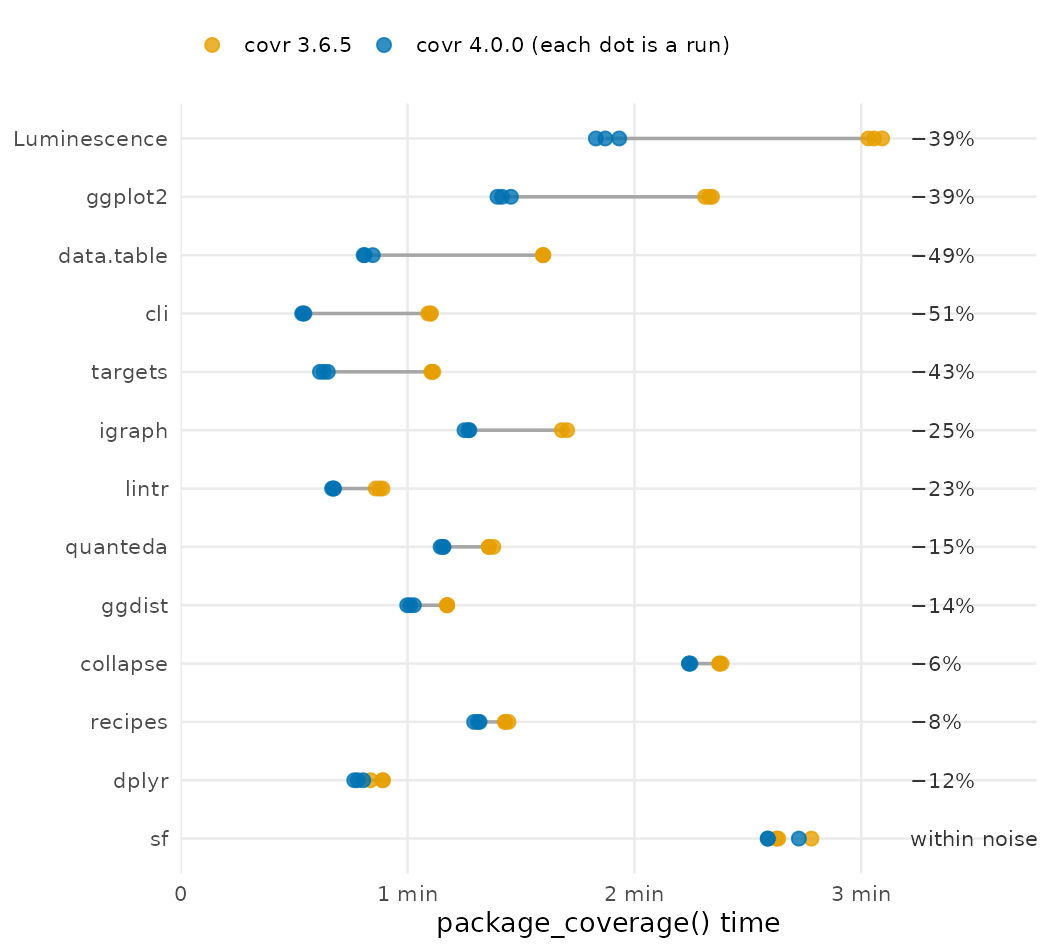
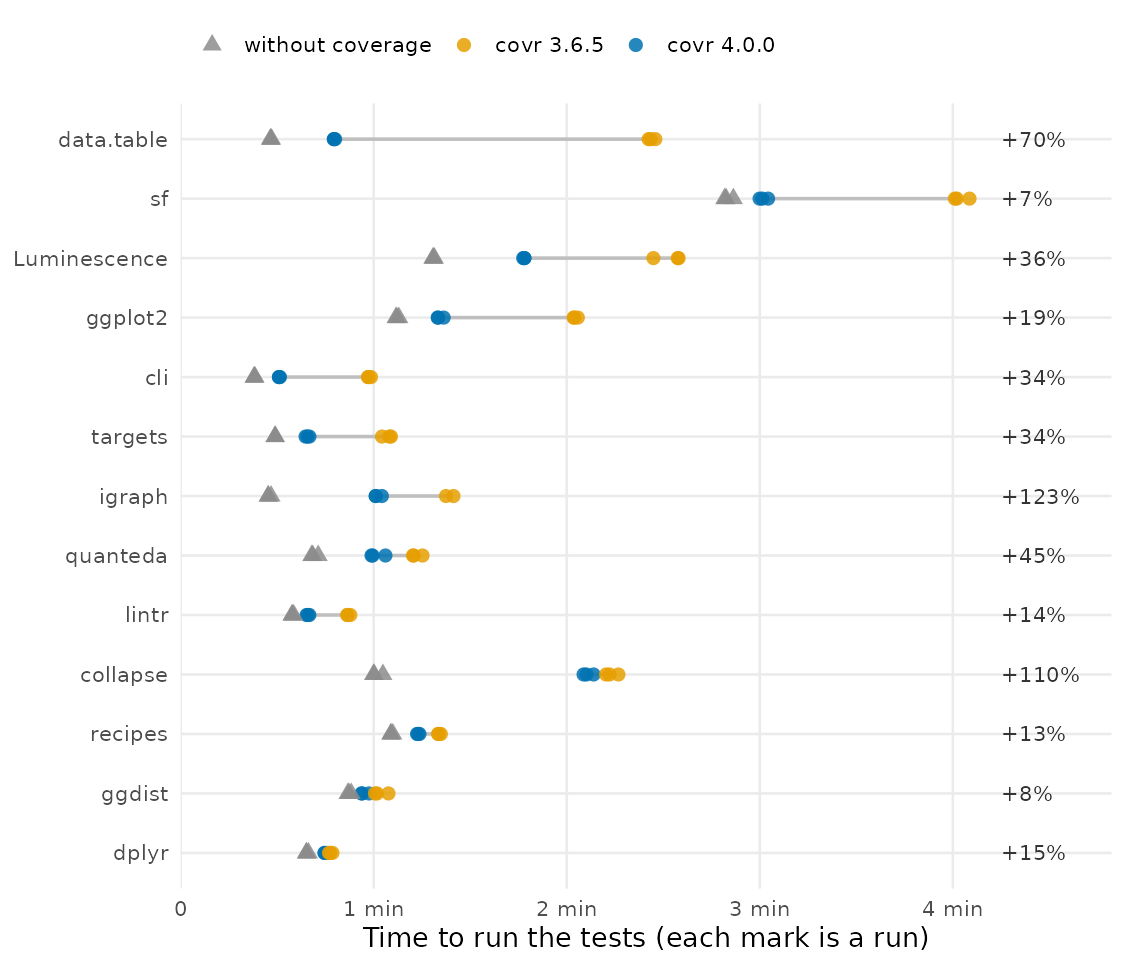
Faster: type = tests results with a no-coverage baseline

diff --git a/content/post/2026-11-09-covr-4-0-0/index.md b/content/post/2026-11-09-covr-4-0-0/index.md
@@ -98,19 +98,25 @@ rendering them to HTML one at a time took nearly all of the 4.5 minutes. The
 report now builds each file's source table as text in a single vectorized
 step, and only uses htmltools for the page around it.
 
-To see what this adds up to, I timed covr 3.6.5 and 4.0.0 measuring the
-coverage of 27 CRAN packages with their own tests. For the packages that take
-more than 30 seconds:
+To see what this adds up to, I ran the tests of 27 CRAN packages three times
+each way: without coverage, and with `package_coverage()` from covr 3.6.5 and
+4.0.0 (times exclude installing the package). For the packages that took
+covr 3.6.5 between 30 seconds and 5 minutes:
 
-![The time covr 3.6.5 and 4.0.0 took to run package_coverage() on each package, three runs each](benchmarks.png)
+![Time to run each package's tests without coverage, with covr 3.6.5 and with covr 4.0.0, three runs each; the labels show what covr 4.0.0 adds to the time without coverage](benchmarks.png)
 
-cli, data.table and targets now take about half the time, and ggplot2 and
-Luminescence about 40% less. The other packages change little, as most of
-their time is spent installing the package and starting R rather than running
-instrumented code: forcats 4 → 4 s, purrr 10 → 9 s, tidyr 17 → 16 s, testthat
-28 → 21 s, devtools 30 → 28 s. insight, the slowest, went from 715 to 682 s.
-(R 4.6.2 on Linux, three runs of each version on an otherwise idle machine.
-The full table, the
+The grey triangles are the tests without coverage, and the labels on the
+right show what measuring coverage with covr 4.0.0 adds to that. For most of
+these packages that is now 10–40%, where covr 3.6.5 often doubled or tripled
+the time: data.table went from 2.4 minutes to 48 seconds, against 28 seconds
+without coverage. igraph and collapse still take about twice as long; most of
+their code is C and C++, which is compiled with coverage instrumentation and
+without optimization.
+
+The smaller packages take a few seconds either way (forcats 2 s without
+coverage, 4 s with either covr; testthat 20 s, 27 s), and insight's long suite
+goes from 671 s with covr 3.6.5 to 661 s, against 646 s without coverage.
+(R 4.6.2 on Linux, on an otherwise idle machine. The full table, the
 [scripts and raw results](https://github.com/r-lib/covr/tree/blog-post-benchmarks/blog/performance)
 are in the covr repository.)
 
